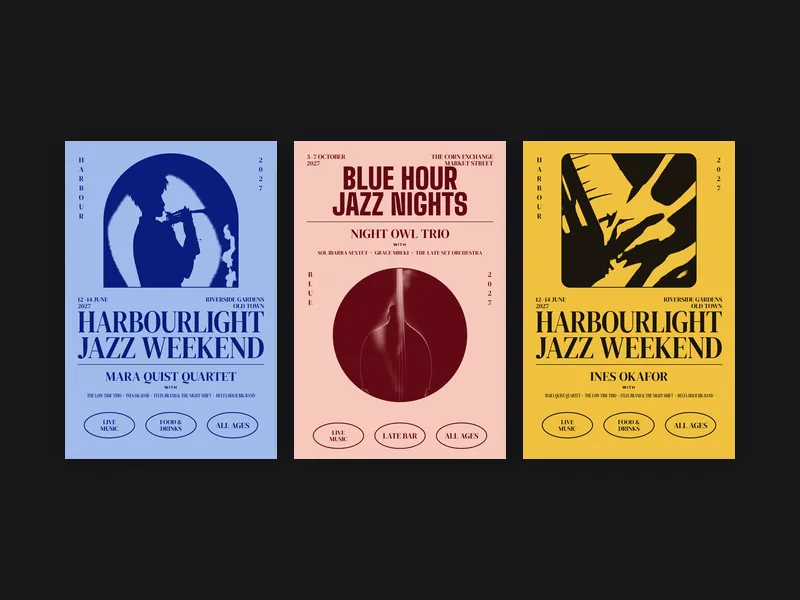
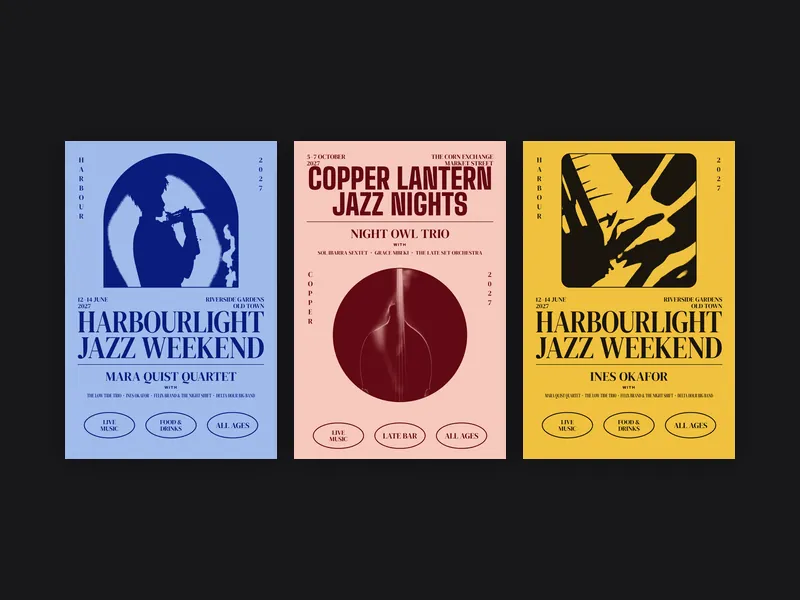
Rename the jazz example to Copper Lantern Jazz Nights
Keeps the festival example clearly our own: new name in the showcase recipe
and the Surprise me ideas (the vertical side word now reads COPPER), with the
showcase image and the festival card thumbnail re-rendered from the workflow.

Claude-Session: https://claude.ai/code/session_01PNWM9AuSBWnLEgpmAr6rZE

Changed region(s): [[0.375, 0.27, 0.625, 0.33]]

diff --git a/public/js/make/festival.js b/public/js/make/festival.js
@@ -101,7 +101,7 @@ export default {
       ['Northern Lights Folk Gathering', '2–4 August 2027', 'Hollow Hill Farm', 'The Wren Sisters\nOld Pine Stringband\nAnnick Dalla\nCalloway Road', 'Camping · Workshops · Family tickets', 'folk'],
       ['Afterhours Electronic Festival', '18–19 September 2027', 'The Old Gasworks', 'NOVA HALE\nKiln\nSister Static\nUnderpass Choir', 'Two stages · Until 4 am · 18+', 'electronic'],
       ['Midsummer Strings', '21 June 2027', 'Glasshouse Hall', 'The Arden Quartet\nLina Petrov, cello\nYoung Sinfonia\nRuth Amsel, violin', 'Evening concerts · Garden picnic · Free under 12', 'classical'],
-      ['Blue Hour Jazz Nights', '5–7 October 2027', 'The Corn Exchange', 'Sol Ibarra Sextet\nNight Owl Trio\nGrace Mbeki\nThe Late Set Orchestra', 'Live music · Late bar · All ages', 'jazz'],
+      ['Copper Lantern Jazz Nights', '5–7 October 2027', 'The Corn Exchange', 'Sol Ibarra Sextet\nNight Owl Trio\nGrace Mbeki\nThe Late Set Orchestra', 'Live music · Late bar · All ages', 'jazz'],
     ];
     const [name, dates, venue, lineup, badges, genre] = ideas[Math.floor(r() * ideas.length)];
     const pk = Object.keys(PALETTES);
